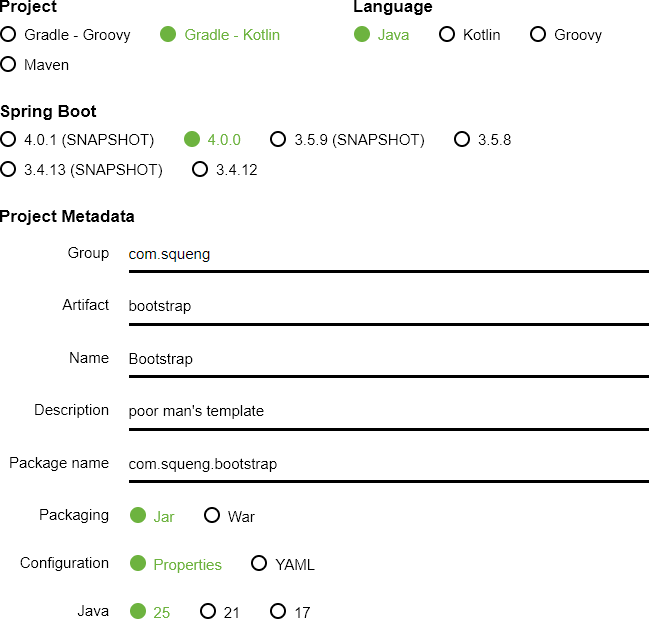
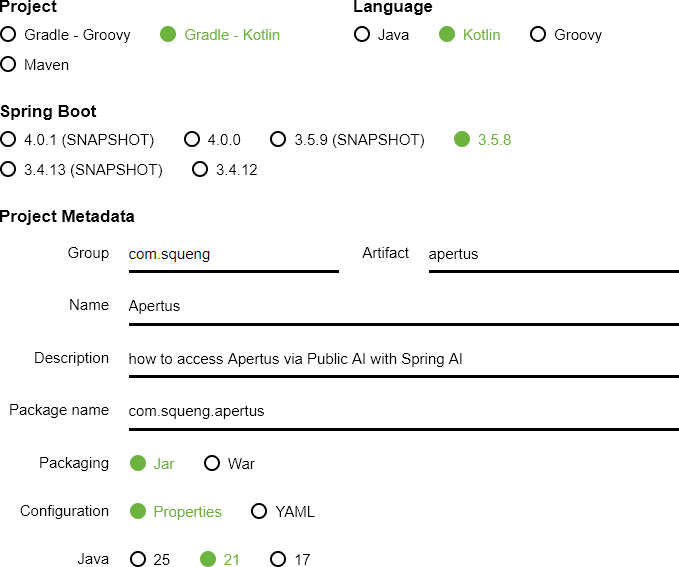
WiP

diff --git a/spring.md b/spring.md
@@ -8,19 +8,25 @@ description: building the right thing right
 
 ## Spring
 
+[Public AI](https://publicai.co/) and [Spring AI](https://spring.io/projects/spring-ai) make it easy to access [Apertus](https://www.swiss-ai.org/apertus).
+
+To follow along, you need to be familiar with Spring (Boot) in general and Spring AI in particular. If that is not the case yet, check out [Spring in Action](https://www.manning.com/books/spring-in-action-sixth-edition) (or [Spring Boot 3](https://dpunkt.de/produkt/spring-boot-3/)) and [Spring AI in Action](https://www.manning.com/books/spring-ai-in-action), respectively. But if you already know how to [create projects](#create-project) [securely](#security-as-a-forethought) and [cleanly](#create-subproject), you can skip ahead to [the AI section](#configure-spring-ai).
+
 ### Create Project
 
 There are various ways to create a Spring Boot project. My preferred way is to use the [Spring Initializr](https://start.spring.io/):
 
-![Init](SIleft.png)
+![Basics](SIleft.png)
 
-(At the time of this writing, Kotlin does not support Java 25, which is why the language version in `build.gradle.kts` would have been tacitly reduced to 24 if we had chossen Kotlin as the language.)
+(At the time of this writing, Kotlin does not support Java 25 and Spring AI does not support Spring Boot 4 yet, which is why Java 21 and Spring Boot 3 are selected instead.)
 
-As for the dependencies, we can start with as little as Spring Web only, but **we must not postpone including Spring Security for too long** …
+Even though Spring AI does not explicitly support Apertus and/or Public AI, we do not have to extend Spring's [AI Model API](https://docs.spring.io/spring-ai/reference/api/index.html#_ai_model_api) as [Wells explains in the *OpenAI compatibility* box on page 13](https://www.manning.com/books/spring-ai-in-action):
+
+> *"Although most AI service providers have their own proprietary APIs, many offer OpenAI-compatible APIs either as their own API or as an alternative to their API. AI service providers such as Groq (https://groq.com/) and Google Gemini, tools such as vLLM (https://docs.vllm.ai/) and LiteLLM (https://www.litellm.ai/), and even Ollama offer APIs that are mostly compatible with OpenAI’s API. You can use Spring AI’s OpenAI starter to integrate with these APIs in the same way you would with OpenAI itself."*
 
 ![Dependencies](SIright.png)
 
-Note that a few versions ago, I would have included Spring Reactive Web instead of Spring Web. But now that Spring supports [Virtual Threads](https://dev.java/learn/new-features/virtual-threads/) and since [Spring's asynchronous model](https://docs.spring.io/spring-framework/reference/web-reactive.html) based on [Project Reactor](https://projectreactor.io/) was never pleasant to work with (unlike [Play's asynchronous model](https://www.playframework.com/documentation/latest/ScalaAsync) based on [Scala Futures](https://docs.scala-lang.org/overviews/core/futures.html)), I am more than happy to switch back to Spring Web, but we must remember to enable Virtual Threads in `src/main/resources/application.properties`:
+Before Java 21, I would have included Spring Reactive Web instead of Spring Web. But now that both Java and Spring support [Virtual Threads](https://dev.java/learn/new-features/virtual-threads/) and since [Spring's asynchronous model](https://docs.spring.io/spring-framework/reference/web-reactive.html) based on [Project Reactor](https://projectreactor.io/) was never pleasant to work with (unlike [Play's asynchronous model](https://www.playframework.com/documentation/latest/ScalaAsync) based on [Scala Futures](https://docs.scala-lang.org/overviews/core/futures.html)), I am more than happy to switch back to Spring Web, but Virtual Threads must be enabled explicitly by adding the following line to `src/main/resources/application.properties`:
 
 ```
 spring.threads.virtual.enabled=true
@@ -45,17 +51,20 @@ Prepare the configuration:
 - within the existing `build.gradle.kts` file, add the subproject as well as the [Scala library](https://mvnrepository.com/artifact/org.scala-lang/scala3-library) as dependencies:
 
 ```
+extra["scalaVersion"] = "3.3.7"
+extra["springAiVersion"] = "1.1.2"
+
 dependencies {
     implementation(project(":hexagon"))
-    implementation("org.scala-lang:scala3-library_3:3.3.7")
+    implementation("org.scala-lang:scala3-library_3:${property("scalaVersion")}")
 
-    implementation("org.springframework.boot:spring-boot-starter-webmvc")
+    implementation("org.springframework.boot:spring-boot-starter-actuator")
 ```
 
 - within the existing `settings.gradle.kts` file, add the subproject as well:
 
 ```
-rootProject.name = "spring-clean"
+rootProject.name = "apertus"
 include("hexagon")
 ```
 
@@ -75,3 +84,26 @@ scala {
     scalaVersion = "3.3.7"
 }
 ```
+
+### Security as a Forethought
+
+### Actuator
+
+### Configure Spring AI
+
+The switch from Open AI to Public AI with one of the two Apertus models is made by adding the following lines to `src/main/resources/application.properties`:
+
+```
+spring.ai.openai.api-key=${PUBLIC_AI_API_KEY}
+# spring.ai.openai.api-key for DEV is set in $HOME\.config\spring-boot-devtools.properties
+spring.ai.openai.base-url=https://api.publicai.co
+# spring.ai.openai.chat.base-url=https://api.publicai.co
+spring.ai.openai.chat.options.model=swiss-ai/apertus-8b-instruct
+# spring.ai.openai.chat.options.model=swiss-ai/apertus-70b-instruct
+```
+
+The [production API key]((https://platform.publicai.co/settings/api-keys)) will have to be configured through an environment variable. But since the [developer tools](https://docs.spring.io/spring-boot/reference/using/devtools.html#using.devtools.globalsettings) have been included above, the [development API key]((https://platform.publicai.co/settings/api-keys)) can be added to [$HOME/.config/spring-boot.spring-boot-devtools.properties](https://docs.spring.io/spring-boot/reference/using/devtools.html#using.devtools.globalsettings) and is picked up in [the usual order](https://docs.spring.io/spring-boot/reference/features/external-config.html).
+
+As trivial as it may seem now, [Wells' *Inspecting Spring AI requests and responses* box on page 41](https://www.manning.com/books/spring-ai-in-action) helped me figure out that prefixing the model with `swiss-ai/` is the way to go (whereas overwriting the `spring.ai.model.chat` with `swiss-ai` is not as that would cause Spring AI to look for a [ChatModel](https://docs.spring.io/spring-ai/reference/api/chatmodel.html) implementation that does not [exist](https://docs.spring.io/spring-ai/reference/api/chat/comparison.html)).
+
+![Logbook](Logbook.png)
